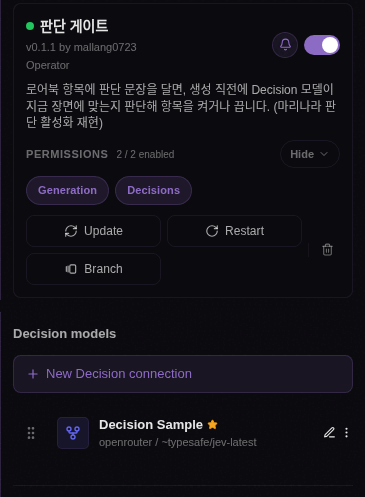
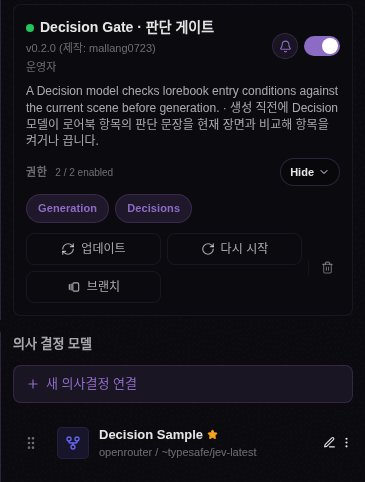
README: 영어 부분은 영어 화면 스크린샷, 한국어 스크린샷 0.2.0 기준으로 다시

diff --git a/README.md b/README.md
@@ -27,7 +27,7 @@ The API (`spindle.decisions.evaluate`) arrived in commit `6d6a921b` (“Add Type
 3. Enable **Decision Gate · 판단 게이트**. If permissions were granted after startup, disable and re-enable it.
 4. In **Connections → Decision Models**, configure a default `noul`-capable model and credentials (or set `connection_id` below). A chat connection alone is insufficient.
 
-![Decision Gate enabled with generation and decisions permissions, and the Decision models section of Connections](docs/images/extension-permissions.png)
+![Decision Gate enabled with generation and decisions permissions, and the Decision models section of Connections](docs/images/extension-permissions-en.png)
 
 ## Usage and entry fields
 
